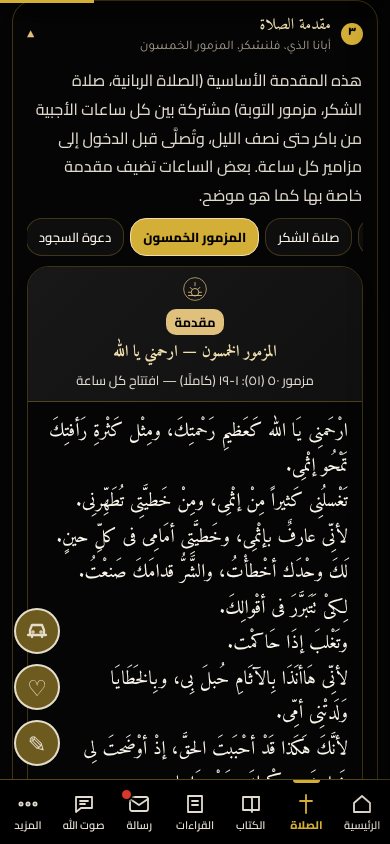
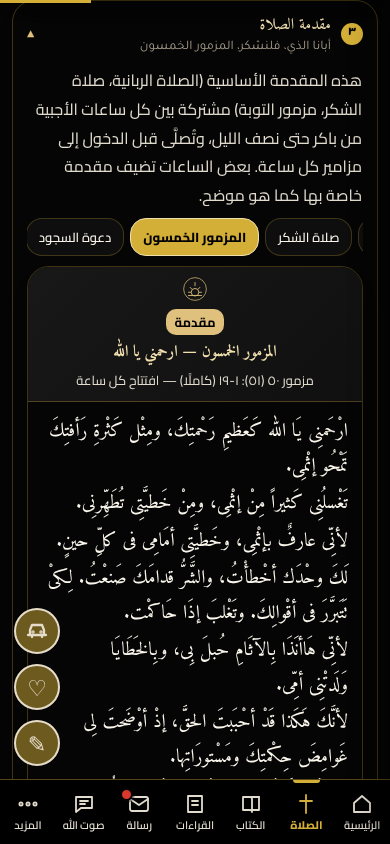
المزمور الخمسون: مسافة أوضح بين سطور المقطع (٧px) + لقطة فاصل المقاطع
Claude-Session: https://claude.ai/code/session_01TxsQHBqtSkgaF9NAg3H2Ap

Changed region(s): [[0.1231, 0.5545, 0.8923, 0.9242], [0.2154, 0.8318, 0.2462, 0.9242]]

diff --git a/sw.js b/sw.js
@@ -1,8 +1,8 @@
 /* الرفيق الروحي — service worker (يُولَّد تلقائيًا من tools/build.mjs؛ لا تعدّله يدويًا)
    اسم الكاش = rafeeq-vX.Y-<هاش كل الملفات> فلا يمكن نسيان رفع اللاحقة.
    عند التثبيت: الملف الذي لم يتغيّر (نفس الاسم المهشَّش) يُنسخ من الكاش القديم بدل تنزيله. */
-const VER='rafeeq-v6.38.0-fdad0124ba';
-const FILES=["./","./app1.fd40aa14de.css","./app10.5e406585a9.js","./app11.75c77e52b7.js","./app12.9a8d4b5c45.css","./app13.5d5e99c1dc.js","./app14.799996e446.js","./app15.62ed32f989.css","./app16.15c5f10699.js","./app17.6e75c5b621.js","./app18.d86393799a.css","./app19.484d289ffc.js","./app2.bad09c9d7c.css","./app20.c568e7849e.css","./app21.07560bf97c.js","./app22.606222337b.css","./app23.e193816c2d.js","./app24.1ad14f92cd.css","./app25.effa0e9a55.js","./app26.c97f6892b6.css","./app27.84ecfe7972.js","./app28.3ae333be34.css","./app29.5fd8780923.js","./app3.b2925e71bd.css","./app30.ae109eb4c0.css","./app31.204408aea6.js","./app31.6349098ac5.css","./app32.e41c0e4d67.css","./app33.7266e275e0.css","./app34.30f33ec62d.css","./app35.d890b75435.js","./app35.e5b7a954ef.css","./app36.5fb1737c05.css","./app36.ebea89d2d5.js","./app37.19723ef28f.js","./app38.62eab1b385.js","./app39.4128e4e2db.css","./app39.661074c773.js","./app4.ecd8957dcd.css","./app45.eb468b7717.js","./app46.15b27f546d.js","./app46.329b0a57e1.css","./app47.783c1b8a81.js","./app49.ed6122068e.css","./app5.99e79ea3ed.js","./app50.b37f989e54.js","./app50.b7bae4ebbc.css","./app51.a5fb613491.css","./app51.df020f8833.js","./app53.47c6142676.js","./app53.9d2909ea39.css","./app54.d5e0cd4563.js","./app54.f765e9236f.css","./app55.b450e0c6e4.js","./app56.6e4c600acf.js","./app56.b4f201f31a.css","./app57.193256e413.js","./app57.5ef863ab08.css","./app58.c4b56a9bbc.js","./app58.d85decf596.css","./app59.8cd9db2560.js","./app59.ef1755829d.css","./app6.4ecbf08d65.js","./app60.2ee1af53b8.css","./app7.dff7520e62.css","./app8.7fd92ebc24.js","./app9.99cbd5490a.css","./apple-touch-icon.png","./bg-bearer.jpg","./bg-crown.jpg","./bg-glory.jpg","./bg-holy.jpg","./bg-lamp.jpg","./bg-royal.jpg","./bg-shroud.jpg","./data-atlas.f256a71c6b.js","./data-bgData.8b050226a6.js","./data-bibleData.74b20dd144.js","./data-bibleNotes.0b1dee6f1b.js","./data-books.363ceb5444.js","./data-ervData.7063836d9e.js","./data-ervHeads.6e154af5e5.js","./data-fathersData.26285256f1.js","./data-hymns.b31b6fa7c4.js","./data-journeys.6da1fa3044.js","./data-khalwaYear.3ff769bdec.js","./data-study.3de03a542f.js","./data-synData.3c9e0cb56a.js","./data-xrData.00d7e71032.js","./icon-192.png","./icon-512.png","./icon-maskable-512.png","./index.html","./manifest.webmanifest","./store-core.95117b743b.js","./store.c26dc1c66d.js"];
+const VER='rafeeq-v6.38.0-3ac07ef6f3';
+const FILES=["./","./app1.fd40aa14de.css","./app10.5e406585a9.js","./app11.75c77e52b7.js","./app12.9a8d4b5c45.css","./app13.5d5e99c1dc.js","./app14.799996e446.js","./app15.62ed32f989.css","./app16.15c5f10699.js","./app17.6e75c5b621.js","./app18.d86393799a.css","./app19.484d289ffc.js","./app2.bad09c9d7c.css","./app20.c568e7849e.css","./app21.07560bf97c.js","./app22.606222337b.css","./app23.e193816c2d.js","./app24.1ad14f92cd.css","./app25.effa0e9a55.js","./app26.c97f6892b6.css","./app27.84ecfe7972.js","./app28.3ae333be34.css","./app29.5fd8780923.js","./app3.b2925e71bd.css","./app30.ae109eb4c0.css","./app31.204408aea6.js","./app31.6349098ac5.css","./app32.e41c0e4d67.css","./app33.7266e275e0.css","./app34.30f33ec62d.css","./app35.d890b75435.js","./app35.e5b7a954ef.css","./app36.5fb1737c05.css","./app36.ebea89d2d5.js","./app37.19723ef28f.js","./app38.62eab1b385.js","./app39.4128e4e2db.css","./app39.661074c773.js","./app4.ecd8957dcd.css","./app45.eb468b7717.js","./app46.15b27f546d.js","./app46.329b0a57e1.css","./app47.783c1b8a81.js","./app49.ed6122068e.css","./app5.99e79ea3ed.js","./app50.b37f989e54.js","./app50.b7bae4ebbc.css","./app51.a5fb613491.css","./app51.df020f8833.js","./app53.47c6142676.js","./app53.9d2909ea39.css","./app54.d5e0cd4563.js","./app54.f765e9236f.css","./app55.b450e0c6e4.js","./app56.6e4c600acf.js","./app56.b4f201f31a.css","./app57.193256e413.js","./app57.5ef863ab08.css","./app58.c4b56a9bbc.js","./app58.d85decf596.css","./app59.8cd9db2560.js","./app59.ef1755829d.css","./app6.4ecbf08d65.js","./app60.380554183b.css","./app7.dff7520e62.css","./app8.7fd92ebc24.js","./app9.99cbd5490a.css","./apple-touch-icon.png","./bg-bearer.jpg","./bg-crown.jpg","./bg-glory.jpg","./bg-holy.jpg","./bg-lamp.jpg","./bg-royal.jpg","./bg-shroud.jpg","./data-atlas.f256a71c6b.js","./data-bgData.8b050226a6.js","./data-bibleData.74b20dd144.js","./data-bibleNotes.0b1dee6f1b.js","./data-books.363ceb5444.js","./data-ervData.7063836d9e.js","./data-ervHeads.6e154af5e5.js","./data-fathersData.26285256f1.js","./data-hymns.b31b6fa7c4.js","./data-journeys.6da1fa3044.js","./data-khalwaYear.3ff769bdec.js","./data-study.3de03a542f.js","./data-synData.3c9e0cb56a.js","./data-xrData.00d7e71032.js","./icon-192.png","./icon-512.png","./icon-maskable-512.png","./index.html","./manifest.webmanifest","./store-core.95117b743b.js","./store.c26dc1c66d.js"];
 self.addEventListener('install',e=>{e.waitUntil((async()=>{
   const c=await caches.open(VER);
   const olds=(await caches.keys()).filter(k=>k.startsWith('rafeeq-')&&k!==VER);

diff --git a/index.html b/index.html
@@ -1694,6 +1694,6 @@ html[data-theme="light"] body #mod-k .meditation .mtitle,html[data-theme="light"
 <link rel="stylesheet" href="app33.7266e275e0.css">
 <link rel="stylesheet" href="app34.30f33ec62d.css">
 <link rel="stylesheet" href="app36.5fb1737c05.css"><script src="app36.ebea89d2d5.js"></script><script src="data-ervHeads.6e154af5e5.js"></script><script src="data-ervData.7063836d9e.js"></script><script>(function(){var s=document.createElement('script');s.id="ervData";s.type='text/plain';s.textContent=__RF_DATA["ervData"];delete __RF_DATA["ervData"];var c=document.currentScript;c.parentNode.insertBefore(s,c)})()</script>
-<link rel="stylesheet" href="app35.e5b7a954ef.css"><script src="data-synData.3c9e0cb56a.js"></script><script>(function(){var s=document.createElement('script');s.id="synData";s.type='text/plain';s.textContent=__RF_DATA["synData"];delete __RF_DATA["synData"];var c=document.currentScript;c.parentNode.insertBefore(s,c)})()</script><script src="app35.d890b75435.js"></script><link rel="stylesheet" href="app54.f765e9236f.css"><script src="app54.d5e0cd4563.js"></script><script src="app55.b450e0c6e4.js"></script><link rel="stylesheet" href="app56.b4f201f31a.css"><script src="app56.6e4c600acf.js"></script><link rel="stylesheet" href="app57.5ef863ab08.css"><script src="app57.193256e413.js"></script><link rel="stylesheet" href="app58.d85decf596.css"><script src="app58.c4b56a9bbc.js"></script><script src="data-bibleNotes.0b1dee6f1b.js"></script><link rel="stylesheet" href="app59.ef1755829d.css"><script src="app59.8cd9db2560.js"></script><link rel="stylesheet" href="app60.2ee1af53b8.css">
+<link rel="stylesheet" href="app35.e5b7a954ef.css"><script src="data-synData.3c9e0cb56a.js"></script><script>(function(){var s=document.createElement('script');s.id="synData";s.type='text/plain';s.textContent=__RF_DATA["synData"];delete __RF_DATA["synData"];var c=document.currentScript;c.parentNode.insertBefore(s,c)})()</script><script src="app35.d890b75435.js"></script><link rel="stylesheet" href="app54.f765e9236f.css"><script src="app54.d5e0cd4563.js"></script><script src="app55.b450e0c6e4.js"></script><link rel="stylesheet" href="app56.b4f201f31a.css"><script src="app56.6e4c600acf.js"></script><link rel="stylesheet" href="app57.5ef863ab08.css"><script src="app57.193256e413.js"></script><link rel="stylesheet" href="app58.d85decf596.css"><script src="app58.c4b56a9bbc.js"></script><script src="data-bibleNotes.0b1dee6f1b.js"></script><link rel="stylesheet" href="app59.ef1755829d.css"><script src="app59.8cd9db2560.js"></script><link rel="stylesheet" href="app60.380554183b.css">
 </body>
 </html>

diff --git a/src/app60.css b/src/app60.css
@@ -2,5 +2,5 @@
 #mod-k .scripture .stz { margin: 0 0 16px; }
 #mod-k .scripture .stz:last-child { margin-bottom: 0; }
 #mod-k .scripture .stz p,
-html[data-design="2"] #mod-k .scripture .stz p { margin: 0 0 3px !important; line-height: 1.75 !important; text-wrap: pretty; }
+html[data-design="2"] #mod-k .scripture .stz p { margin: 0 0 7px !important; line-height: 1.75 !important; text-wrap: pretty; }
 #mod-k .scripture .stz + .stz { padding-top: 14px; border-top: 1px dotted rgba(var(--tc-c9a44c-rgb, 201, 164, 76), 0.35); }

diff --git a/app60.380554183b.css b/app60.380554183b.css
@@ -1,0 +1,1 @@
+#mod-k .scripture .stz{margin:0 0 16px}#mod-k .scripture .stz:last-child{margin-bottom:0}#mod-k .scripture .stz p,html[data-design="2"] #mod-k .scripture .stz p{margin:0 0 7px!important;line-height:1.75!important;text-wrap:pretty}#mod-k .scripture .stz+.stz{padding-top:14px;border-top:1px dotted rgba(var(--tc-c9a44c-rgb, 201, 164, 76),.35)}
